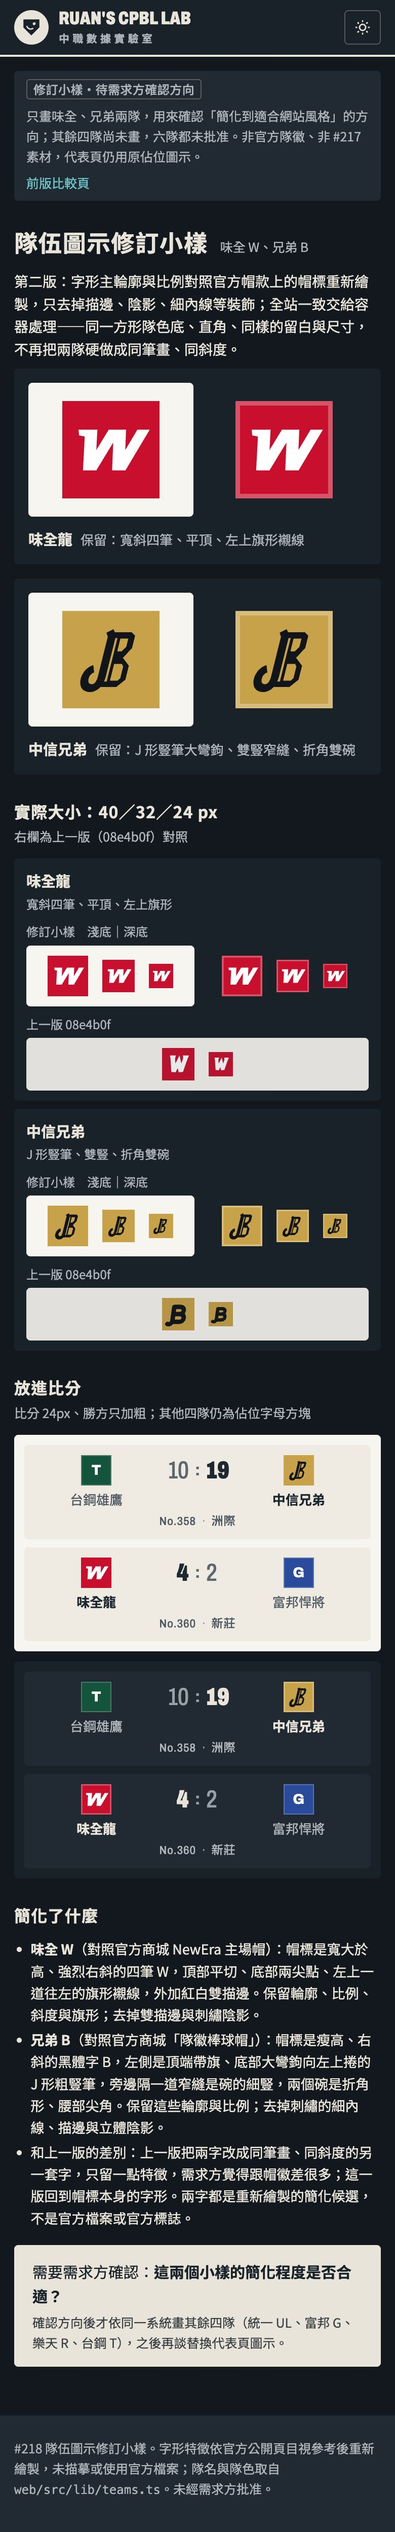
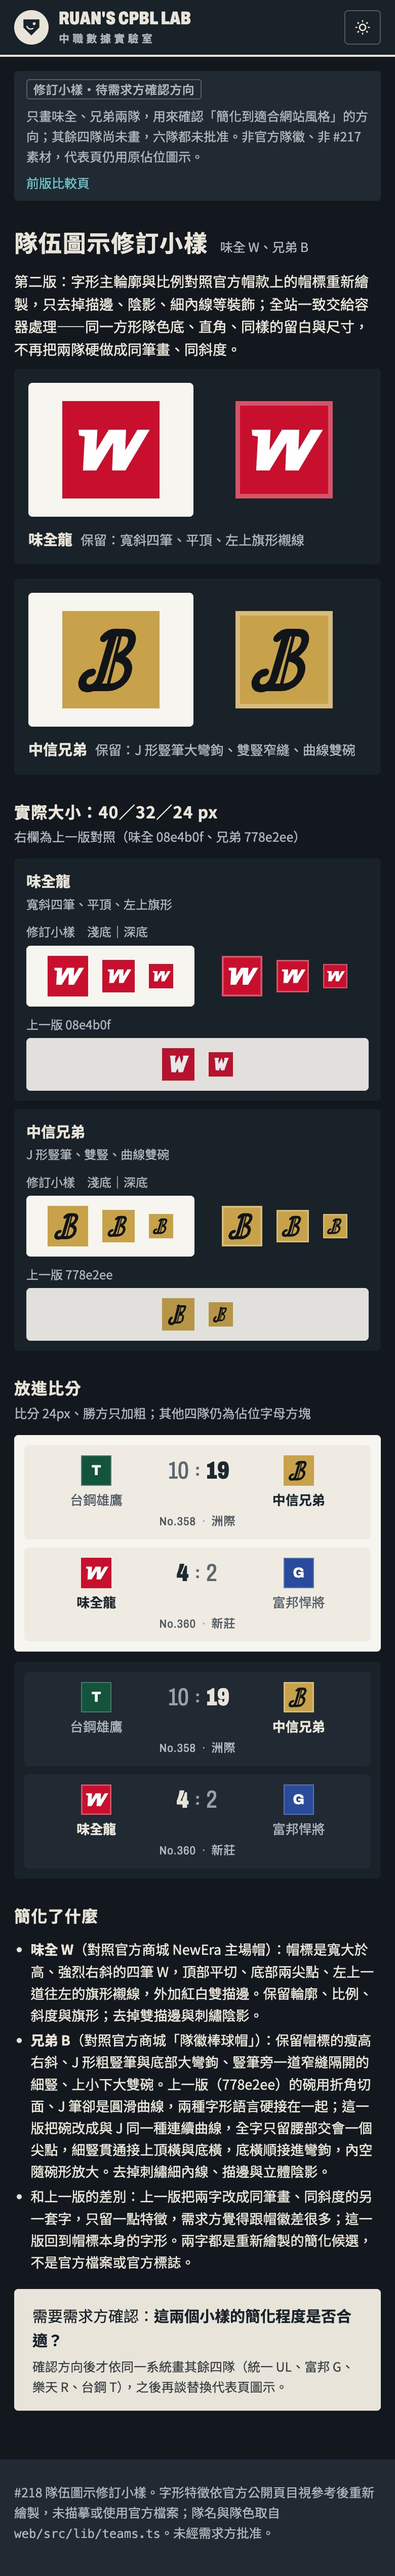
docs: unify #218 Brothers B into one curved letterform
需求方回饋兄弟 B「像歌德體又不太像，曲線跟銳角很違和」。上一版碗用折角切面、J 豎筆卻是圓滑
曲線。本版保留瘦高右斜、J 形豎筆大彎鉤、雙豎窄縫與上小下大雙碗，將碗改成與 J 同一種連續曲線，
只留腰部一個尖點；細豎貫通頂底橫、底橫順接彎鉤、內空放大。上一版另存 refined-ACN011-prev.svg
對照並移除不再使用的 v1 B 資產。味全 W 與底板未動。

diff --git a/design/brand-218/proposal/team-icons-refined.html b/design/brand-218/proposal/team-icons-refined.html
@@ -63,17 +63,17 @@
   <div class="sh"><h1>隊伍圖示修訂小樣</h1><span class="cue">味全 W、兄弟 B</span></div>
   <p class="lead">第二版：字形主輪廓與比例對照官方帽款上的帽標重新繪製，只去掉描邊、陰影、細內線等裝飾；全站一致交給容器處理——同一方形隊色底、直角、同樣的留白與尺寸，不再把兩隊硬做成同筆畫、同斜度。</p>
 
-  <div class="heroes"><figure class="hero-mark"><div class="duo"><div class="big sw-light"><svg class="ic s96" role="img" aria-label="味全龍 修訂小樣"><use href="assets/team-icons/refined-AAA011.svg#mark"/></svg></div><div class="big sw-dark"><svg class="ic s96" aria-hidden="true"><use href="assets/team-icons/refined-AAA011.svg#mark"/></svg></div></div><figcaption><b>味全龍</b>保留：寬斜四筆、平頂、左上旗形襯線</figcaption></figure><figure class="hero-mark"><div class="duo"><div class="big sw-light"><svg class="ic s96" role="img" aria-label="中信兄弟 修訂小樣"><use href="assets/team-icons/refined-ACN011.svg#mark"/></svg></div><div class="big sw-dark"><svg class="ic s96" aria-hidden="true"><use href="assets/team-icons/refined-ACN011.svg#mark"/></svg></div></div><figcaption><b>中信兄弟</b>保留：J 形豎筆大彎鉤、雙豎窄縫、折角雙碗</figcaption></figure></div>
+  <div class="heroes"><figure class="hero-mark"><div class="duo"><div class="big sw-light"><svg class="ic s96" role="img" aria-label="味全龍 修訂小樣"><use href="assets/team-icons/refined-AAA011.svg#mark"/></svg></div><div class="big sw-dark"><svg class="ic s96" aria-hidden="true"><use href="assets/team-icons/refined-AAA011.svg#mark"/></svg></div></div><figcaption><b>味全龍</b>保留：寬斜四筆、平頂、左上旗形襯線</figcaption></figure><figure class="hero-mark"><div class="duo"><div class="big sw-light"><svg class="ic s96" role="img" aria-label="中信兄弟 修訂小樣"><use href="assets/team-icons/refined-ACN011.svg#mark"/></svg></div><div class="big sw-dark"><svg class="ic s96" aria-hidden="true"><use href="assets/team-icons/refined-ACN011.svg#mark"/></svg></div></div><figcaption><b>中信兄弟</b>保留：J 形豎筆大彎鉤、雙豎窄縫、曲線雙碗</figcaption></figure></div>
 
-  <div class="sh s"><h2>實際大小：40／32／24 px</h2><span class="cue">右欄為上一版（08e4b0f）對照</span></div>
+  <div class="sh s"><h2>實際大小：40／32／24 px</h2><span class="cue">右欄為上一版對照（味全 08e4b0f、兄弟 778e2ee）</span></div>
   <div class="trows">
     <div class="trow"><div class="who"><b>味全龍</b><span>寬斜四筆、平頂、左上旗形</span></div>
       <div class="set" data-set="修訂小樣　淺底｜深底"><div class="pair"><div class="strip sw-light"><svg class="ic s40" role="img" aria-label="味全龍 修訂小樣 40px"><use href="assets/team-icons/refined-AAA011.svg#mark"/></svg><svg class="ic s32" role="img" aria-label="味全龍 修訂小樣 32px"><use href="assets/team-icons/refined-AAA011.svg#mark"/></svg><svg class="ic s24" role="img" aria-label="味全龍 修訂小樣 24px"><use href="assets/team-icons/refined-AAA011.svg#mark"/></svg></div><div class="strip sw-dark"><svg class="ic s40" aria-hidden="true"><use href="assets/team-icons/refined-AAA011.svg#mark"/></svg><svg class="ic s32" aria-hidden="true"><use href="assets/team-icons/refined-AAA011.svg#mark"/></svg><svg class="ic s24" aria-hidden="true"><use href="assets/team-icons/refined-AAA011.svg#mark"/></svg></div></div></div>
       <div class="set old" data-set="上一版 08e4b0f"><div class="strip sw-light"><svg class="ic s32" aria-hidden="true"><use href="assets/team-icons/refined-AAA011-v1.svg#mark"/></svg><svg class="ic s24" aria-hidden="true"><use href="assets/team-icons/refined-AAA011-v1.svg#mark"/></svg></div></div>
     </div>
-    <div class="trow"><div class="who"><b>中信兄弟</b><span>J 形豎筆、雙豎、折角雙碗</span></div>
+    <div class="trow"><div class="who"><b>中信兄弟</b><span>J 形豎筆、雙豎、曲線雙碗</span></div>
       <div class="set" data-set="修訂小樣　淺底｜深底"><div class="pair"><div class="strip sw-light"><svg class="ic s40" role="img" aria-label="中信兄弟 修訂小樣 40px"><use href="assets/team-icons/refined-ACN011.svg#mark"/></svg><svg class="ic s32" role="img" aria-label="中信兄弟 修訂小樣 32px"><use href="assets/team-icons/refined-ACN011.svg#mark"/></svg><svg class="ic s24" role="img" aria-label="中信兄弟 修訂小樣 24px"><use href="assets/team-icons/refined-ACN011.svg#mark"/></svg></div><div class="strip sw-dark"><svg class="ic s40" aria-hidden="true"><use href="assets/team-icons/refined-ACN011.svg#mark"/></svg><svg class="ic s32" aria-hidden="true"><use href="assets/team-icons/refined-ACN011.svg#mark"/></svg><svg class="ic s24" aria-hidden="true"><use href="assets/team-icons/refined-ACN011.svg#mark"/></svg></div></div></div>
-      <div class="set old" data-set="上一版 08e4b0f"><div class="strip sw-light"><svg class="ic s32" aria-hidden="true"><use href="assets/team-icons/refined-ACN011-v1.svg#mark"/></svg><svg class="ic s24" aria-hidden="true"><use href="assets/team-icons/refined-ACN011-v1.svg#mark"/></svg></div></div>
+      <div class="set old" data-set="上一版 778e2ee"><div class="strip sw-light"><svg class="ic s32" aria-hidden="true"><use href="assets/team-icons/refined-ACN011-prev.svg#mark"/></svg><svg class="ic s24" aria-hidden="true"><use href="assets/team-icons/refined-ACN011-prev.svg#mark"/></svg></div></div>
     </div>
   </div>
 
@@ -93,7 +93,7 @@
     <div class="sh s"><h2 id="n-h">簡化了什麼</h2></div>
     <ul>
       <li><b>味全 W</b>（對照官方商城 NewEra 主場帽）：帽標是寬大於高、強烈右斜的四筆 W，頂部平切、底部兩尖點、左上一道往左的旗形襯線，外加紅白雙描邊。保留輪廓、比例、斜度與旗形；去掉雙描邊與刺繡陰影。</li>
-      <li><b>兄弟 B</b>（對照官方商城「隊徽棒球帽」）：帽標是瘦高、右斜的黑體字 B，左側是頂端帶旗、底部大彎鉤向左上捲的 J 形粗豎筆，旁邊隔一道窄縫是碗的細豎，兩個碗是折角形、腰部尖角。保留這些輪廓與比例；去掉刺繡的細內線、描邊與立體陰影。</li>
+      <li><b>兄弟 B</b>（對照官方商城「隊徽棒球帽」）：保留帽標的瘦高右斜、J 形粗豎筆與底部大彎鉤、豎筆旁一道窄縫隔開的細豎、上小下大雙碗。上一版（778e2ee）的碗用折角切面、J 筆卻是圓滑曲線，兩種字形語言硬接在一起；這一版把碗改成與 J 同一種連續曲線，全字只留腰部交會一個尖點，細豎貫通接上頂橫與底橫，底橫順接進彎鉤，內空隨碗形放大。去掉刺繡細內線、描邊與立體陰影。</li>
       <li>和上一版的差別：上一版把兩字改成同筆畫、同斜度的另一套字，只留一點特徵，需求方覺得跟帽徽差很多；這一版回到帽標本身的字形。兩字都是重新繪製的簡化候選，不是官方檔案或官方標誌。</li>
     </ul>
     <p class="ask">需要需求方確認：<b>這兩個小樣的簡化程度是否合適？</b><small>確認方向後才依同一系統畫其餘四隊（統一 UL、富邦 G、樂天 R、台鋼 T），之後再談替換代表頁圖示。</small></p>
